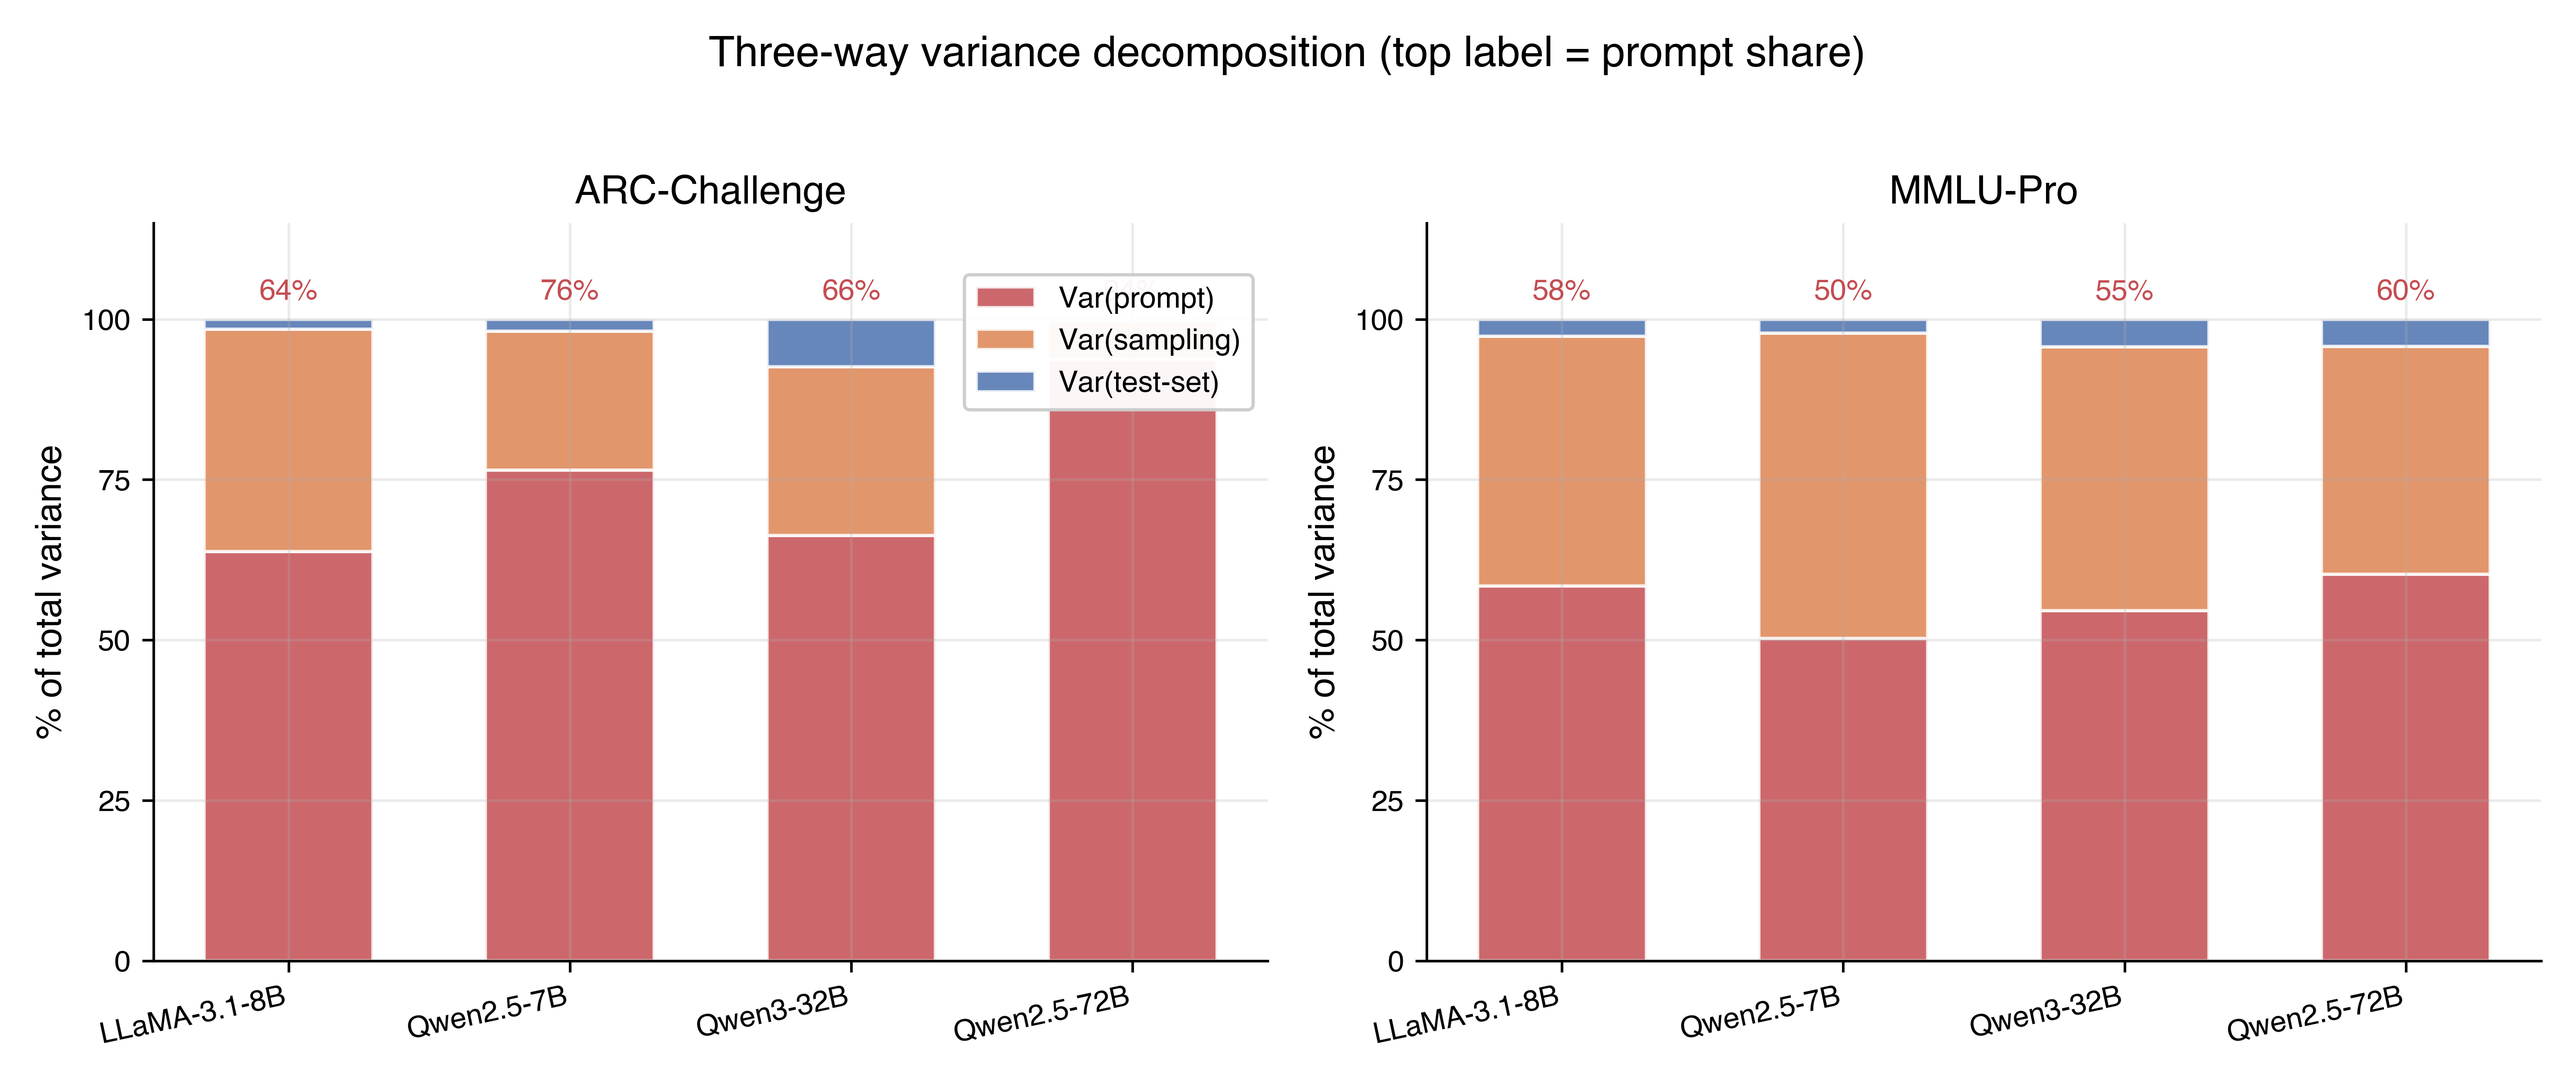
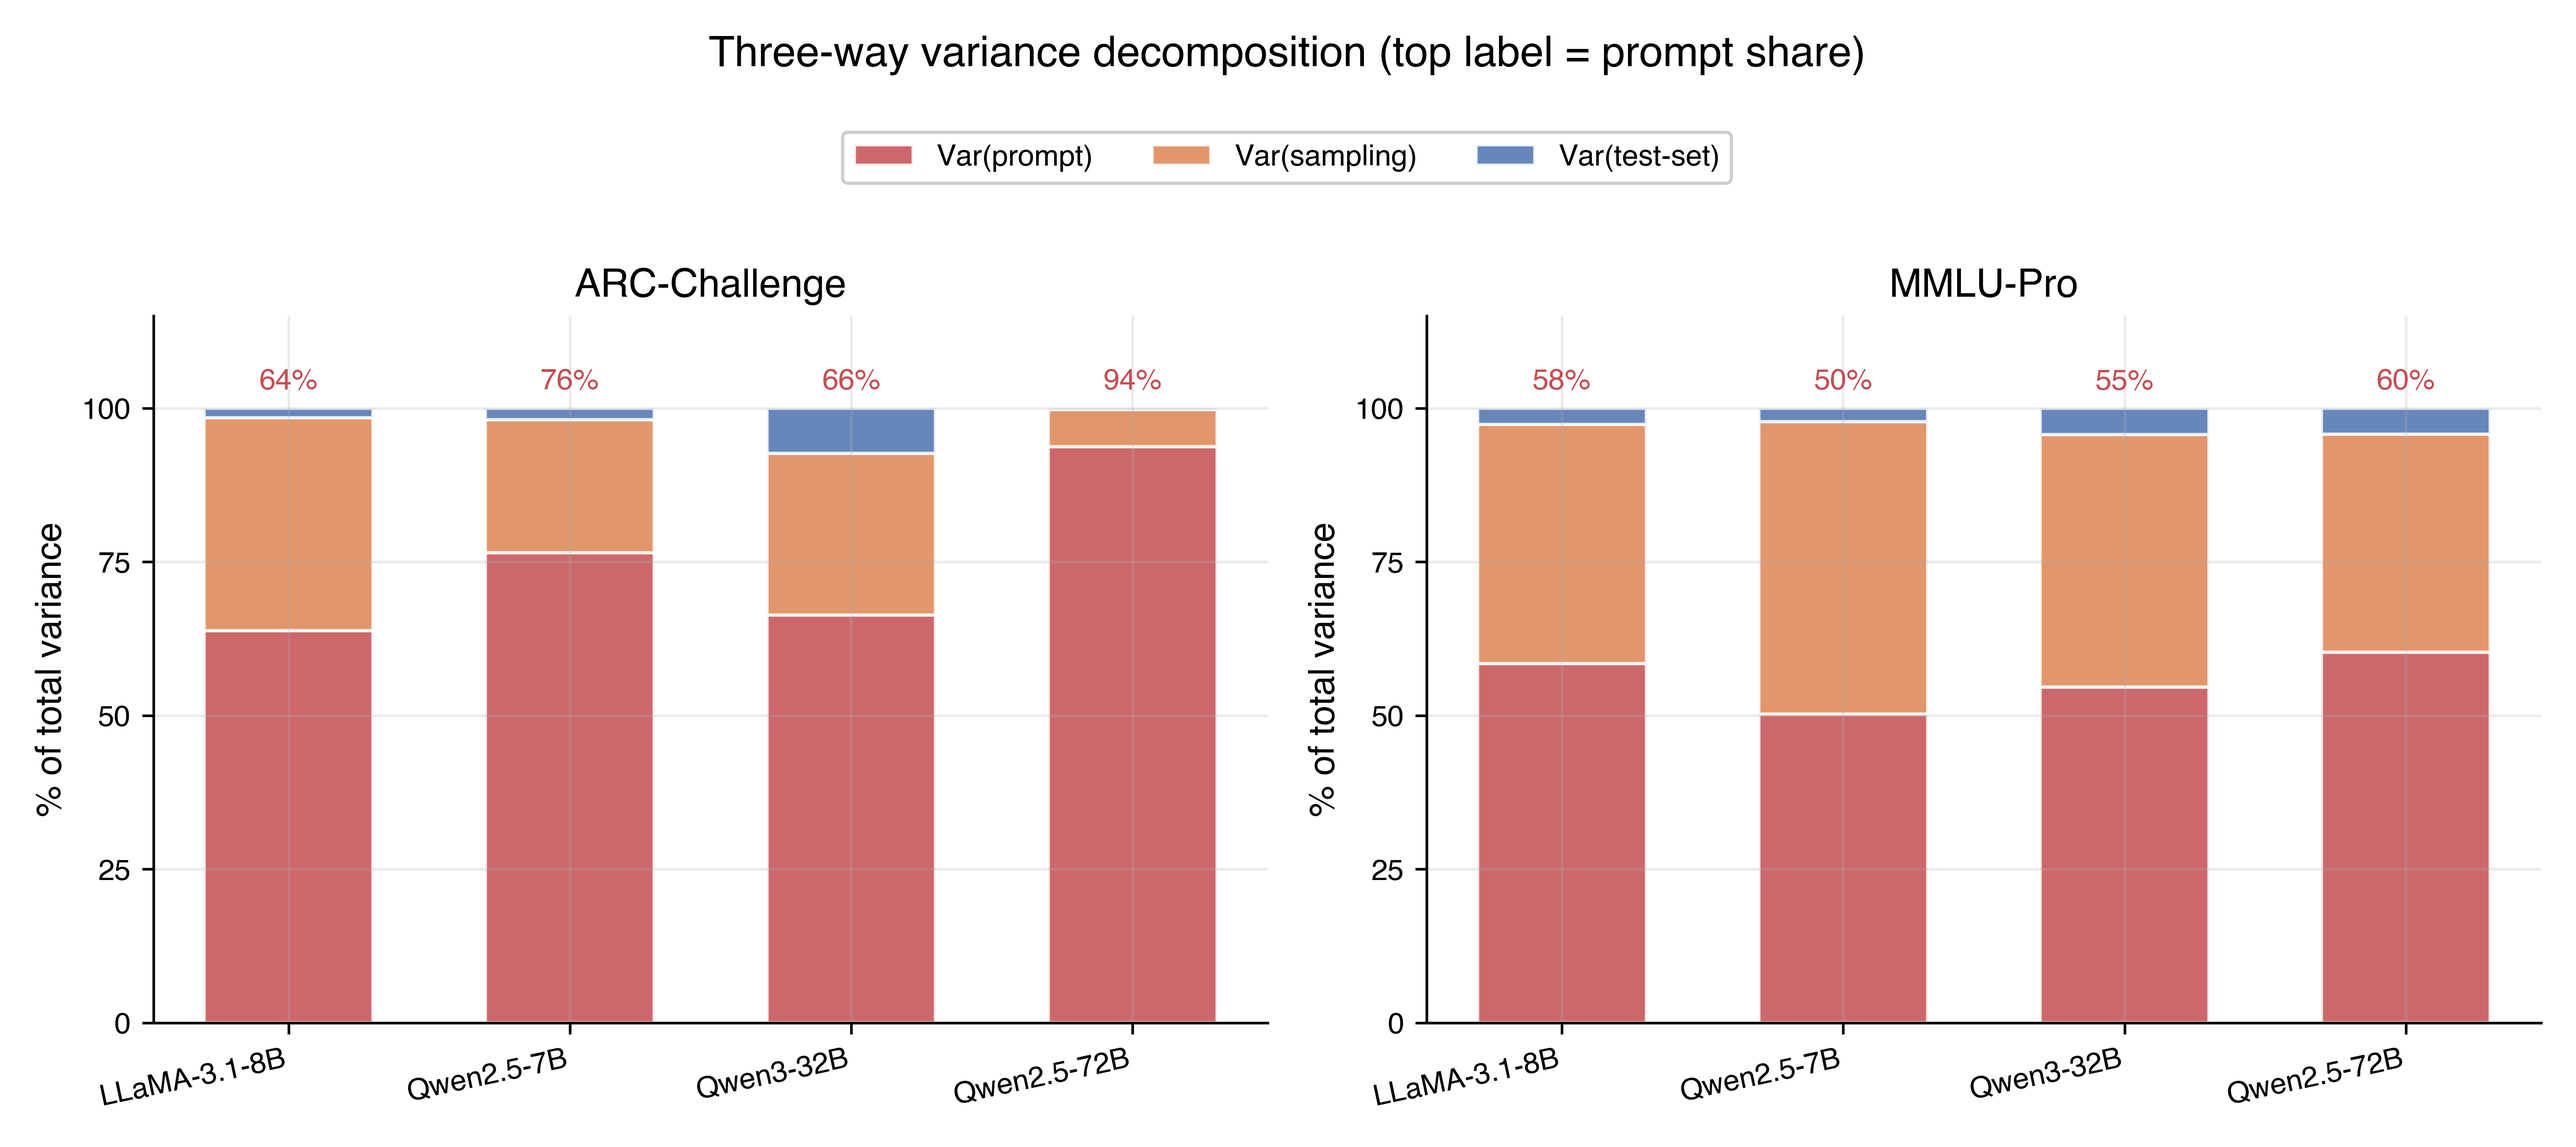
modifyed:   figures/fig3_three_way_variance.png

diff --git a/figures/generate_report_figures.py b/figures/generate_report_figures.py
@@ -315,18 +315,19 @@ def fig3_three_way_variance():
         ax.set_yticks([0, 25, 50, 75, 100])
         ax.grid(True, axis="y", alpha=0.25)
 
-        if ax_idx == 0:
-            ax.legend(
-                loc="upper right",
-                framealpha=0.95, fontsize=9,
-                ncol=1, bbox_to_anchor=(1.0, 0.95),
-            )
+    handles, labels = axes[0].get_legend_handles_labels()
+    fig.legend(
+        handles, labels,
+        loc="upper center",
+        framealpha=0.95, fontsize=9,
+        ncol=3, bbox_to_anchor=(0.5, 1.0),
+    )
 
     fig.suptitle(
         "Three-way variance decomposition (top label = prompt share)",
-        fontsize=13, fontweight="bold", y=1.02,
+        fontsize=13, fontweight="bold", y=1.08,
     )
-    fig.tight_layout()
+    fig.tight_layout(rect=[0, 0, 1, 0.97])
     fig.savefig(OUT / "fig3_three_way_variance.png")
     plt.close(fig)
     print("  saved fig3_three_way_variance.png")
